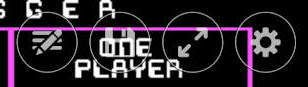
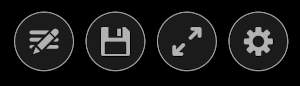
Update buttons layout

diff --git a/v7/static/examples/all-buttons.html b/v7/static/examples/all-buttons.html
@@ -15,7 +15,7 @@
          emulators.pathPrefix = "/v7/build/releases/latest/emulators/";
 
          async function start() {
-             const layers = emulatorsUi.dom.layers(document.getElementById("root"), { scale: 1.0 });
+             const layers = emulatorsUi.dom.layers(document.getElementById("root"), { scale: 0.7 });
              layers.showLoadingLayer();
 
              const bundleUrl = "https://doszone-uploads.s3.dualstack.eu-central-1.amazonaws.com/original/2X/9/9ed7eb9c2c441f56656692ed4dc7ab28f58503ce.jsdos";
@@ -40,10 +40,10 @@
                  }
              };
 
-             addButtonsGroup(buttons, "left", "top", 1);
-             addButtonsGroup(buttons, "left", "bottom", 5);
-             addButtonsGroup(buttons, "right", "top", 10);
-             addButtonsGroup(buttons, "right", "bottom", 15);
+             addButtonsGroup(buttons, "left", "bottom", 1);
+             addButtonsGroup(buttons, "right", "bottom", 5);
+             addButtonsGroup(buttons, "left", "top", 9);
+             addButtonsGroup(buttons, "right", "top", 12);
 
              emulatorsUi.controls.button(layers, ci, buttons);
              layers.hideLoadingLayer();

diff --git a/v7/static/releases/latest/emulators-ui/emulators-ui.css b/v7/static/releases/latest/emulators-ui/emulators-ui.css
@@ -150,6 +150,7 @@
     background-position: center;
 
     filter: opacity(0.7);
+    background-color: rgba(128, 128, 128, 0.3);
 }
 
 
@@ -197,6 +198,7 @@
     left: 0;
     right: 0;
     z-index: 999;
+    color: black;
     -webkit-touch-callout: none;
     -webkit-user-select: none;
     -khtml-user-select: none;

diff --git a/v7/docs/buttons.md b/v7/docs/buttons.md
@@ -62,7 +62,7 @@ You can create up to 16 buttons per [layer](multiple-layers.md). Layout of all b
 <img alt="all buttons" src={useBaseUrl('img/all-buttons.jpg')} />
 
 :::warning
-If you use default js-dos installation then button `10` will be created automatically.
+If you use default js-dos installation then button `12` will be created automatically.
 This button will be an options button that gives access to built-in functions (fullscreen, save-load, etc)
 <img alt="special button" src={useBaseUrl('img/special-button.jpg')} />
 :::
